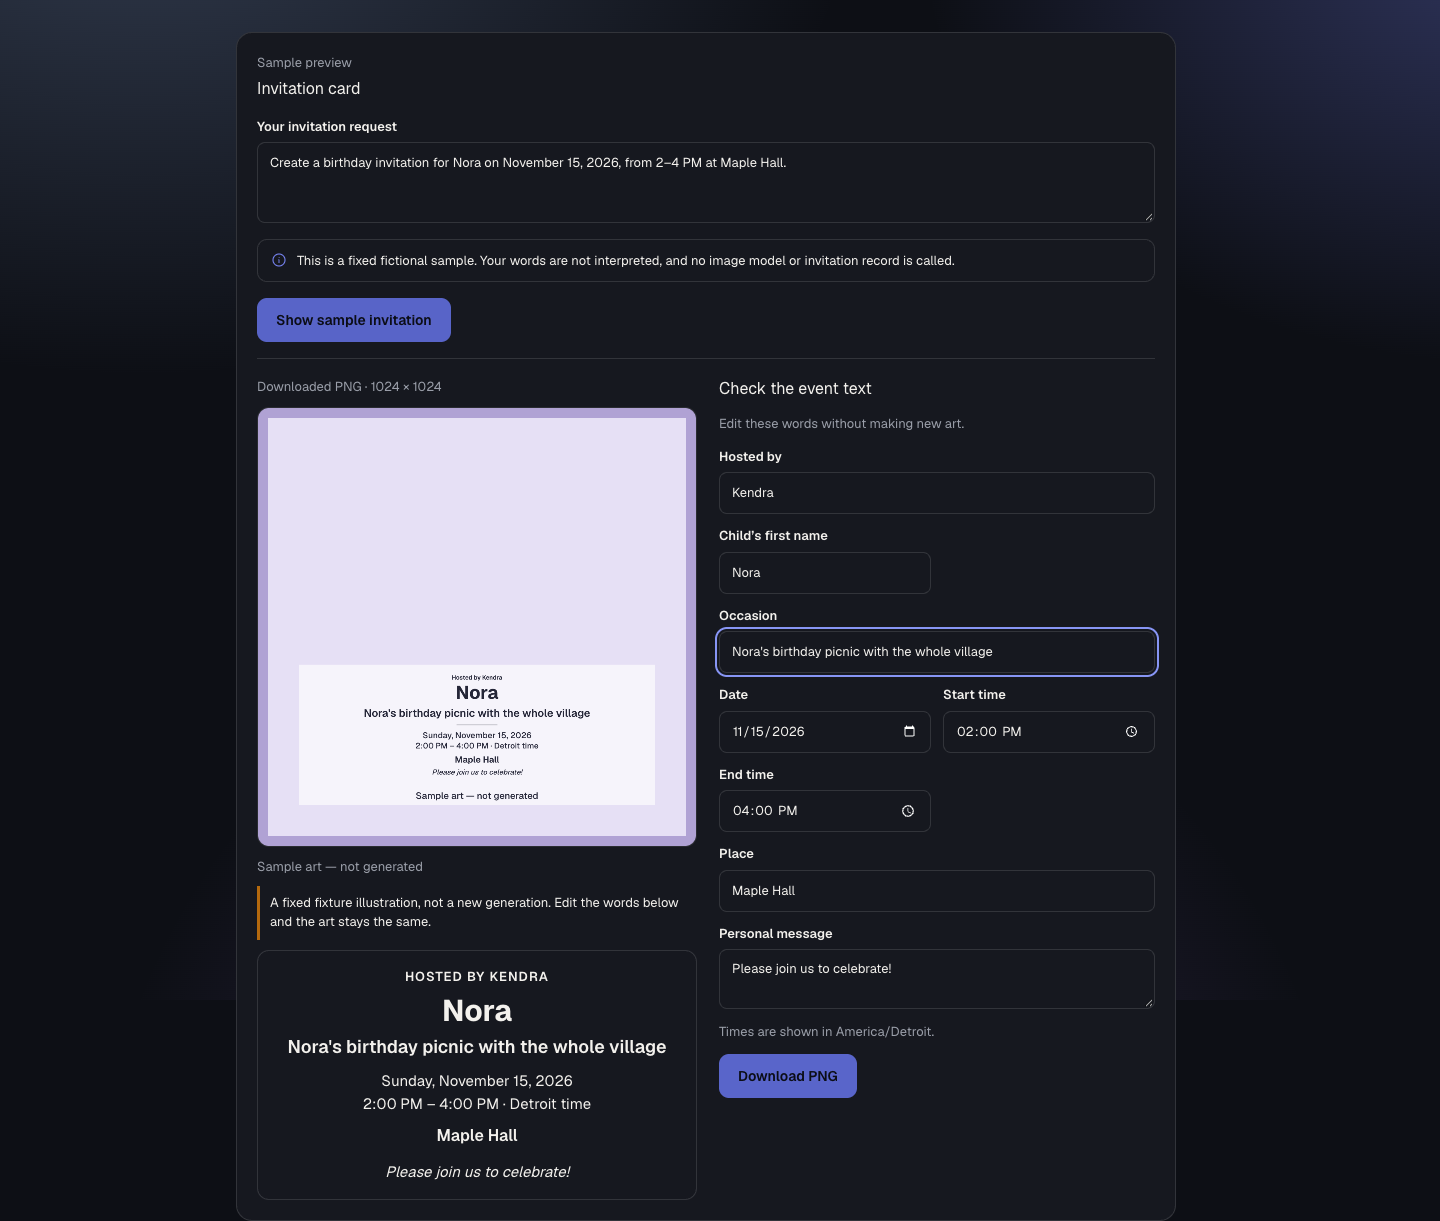
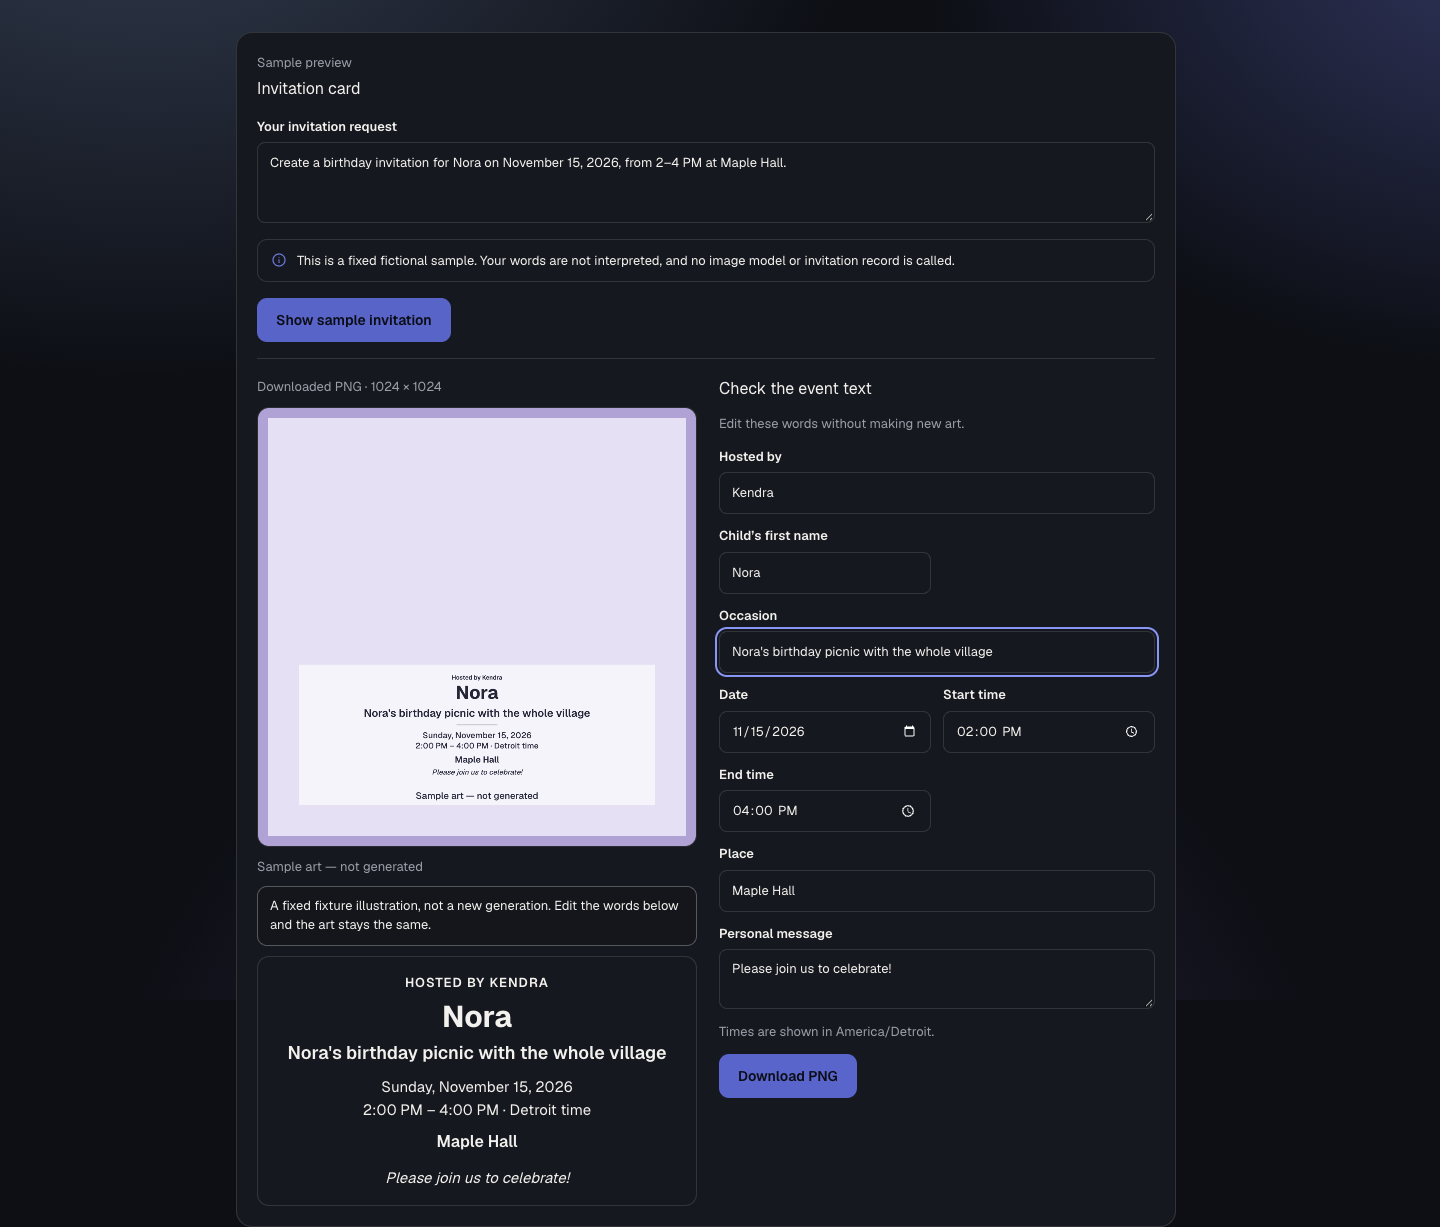
fix(invites): resolve the detector's side-tab finding; record the visual proof
The Impeccable source scan flagged the provenance note's 3px `border-left` — the single-side
colour tab that reads as generated UI. Replaced with a full 1px hairline plus a subtle
color-mix tint from existing tokens; the fixture state is still carried by the note's own
wording. Source scan is now clean.

The rendered scan's one remaining finding is the shared warm-paper canvas (--fg-canvas in
web/src/index.css), which docs/contracts/design.md §6 fixes as the product surface. The
invites panel adds no background of its own, so that is a justified waiver; the CLI could
only suppress it by file glob (which would also hide a real cream misuse here), so the
reasoning is recorded in the evidence note rather than as a config ignore.

- docs/contracts/invites.md §8.7: hostName/message are app-owned card text, never extracted or
  sent to any model, filled once by withInviteDefaults(); fixture labelling stated per layer.
- docs/evidence/invites-card-host-message/: desktop 1440×1000 and phone 390×844, light and
  dark, plus both exported PNGs. The two exports are byte-identical
  (sha256 96b2ff7e…4cad95, 68135 bytes, 1024×1024): viewport width does not change the card.

No backend, budget, ledger, settlement-proof or migration change. Draft PR #186, not merged.

diff --git a/web/src/features/invites/invites.css b/web/src/features/invites/invites.css
@@ -15,8 +15,8 @@
 .invites-card__caption{font-size:13px;color:var(--fg-muted);margin:0}
 .invites-card__preview canvas{display:block;width:100%;height:auto;border:1px solid var(--fg-border);border-radius:12px;background:var(--fg-canvas)}
 .invites-card__credit{font-size:13px;color:var(--fg-muted);margin:0}
-.invites-card__source{font-size:13px;line-height:1.45;color:var(--fg-ink);margin:0;padding:8px 10px;border-left:3px solid var(--fg-border);background:var(--fg-surface)}
-.invites-card__source[data-source="FIXTURE"]{border-left-color:var(--fg-warning,#b4690e)}
+.invites-card__source{font-size:13px;line-height:1.45;color:var(--fg-ink);margin:0;padding:10px 12px;border:1px solid var(--fg-border);border-radius:10px;background:var(--fg-canvas)}
+.invites-card__source[data-source="FIXTURE"]{border-color:color-mix(in oklab,var(--fg-ink) 20%,var(--fg-border));background:color-mix(in oklab,var(--fg-ink) 4%,var(--fg-canvas))}
 
 /* The same lines the canvas draws, at real reading sizes — so the invitation stays legible on a
    phone without pinching a 1024px square down to 390px. */

diff --git a/docs/evidence/invites-card-host-message/README.md b/docs/evidence/invites-card-host-message/README.md
@@ -44,3 +44,23 @@ output.
 3. **The default personal note is filler if a family never edits it.** It is a plain, honest line
    (`Please join us to celebrate!`) that is editable in one field, and it is never described as
    model-generated. A more specific default would have implied an event detail nobody supplied.
+
+## Detector pass (`impeccable` 0.1.18)
+
+**Source scan** (`impeccable detect web/src/features/invites`) found one anti-pattern: a 3px
+`border-left` accent on the provenance note — the recognisable single-side-colour tab of generated
+UIs. Resolved in `invites.css`: the note now uses a full 1px hairline and a subtle `color-mix` tint
+built from existing tokens, so the fixture state is carried by the text (which already said it
+outright) plus a quiet surface change, with no side tab.
+
+**Rendered scan** (`impeccable detect http://127.0.0.1:4183/invites-preview.html`) reports one
+finding: the cream page background `rgb(253, 250, 244)`. That colour is `--fg-canvas` in
+`web/src/index.css` — the repo's shared warm-paper surface, fixed by `docs/contracts/design.md` §6
+as the deliberate canvas for the whole product. The invites panel introduces no background of its
+own, so this is a **justified waiver, not a change**: the CLI's only scoping option for this rule
+is a file glob, which would also suppress a genuine cream misuse in this folder, so the reasoning
+is recorded here rather than as an ignore in `.impeccable/config.json`.
+
+Both scans state their own limits: the source scan runs regex matching only, so the element rules
+(tiny text, low contrast) do not run on files — those were checked in the real browser instead, at
+1440 and 390, light and dark, by opening the captures linked above.
